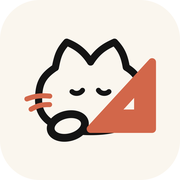
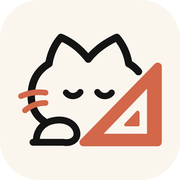
시안을 손으로 옮기는 대신 벡터를 그대로 쓴다 (#127)
마크를 세 번 고쳐 그렸다. 시안이 그림 파일로만 있는 줄 알고 잉크를 픽셀로 재서 랜드마크를
이어 붙였는데, 귀와 발이 두 번 어긋났다. 점 몇 개는 형태가 아니다. 그냥스타일에 벡터 원본이
있었다 — download.svg. 워드마크만 떼고 다섯 그룹을 좌표도 굵기도 손대지 않은 채 옮기고,
판 가운데로 올리는 transform 한 줄만 붙였다. 색은 이미 먹과 클레이라 칠할 것도 없었다.

같은 그림이 icon.svg와 Brand에 두 번 적히는 건 그대로다. 테스트가 획, 굵기, 배치, 그리고
삼각자 속을 비우는 even-odd까지 맞물어 둔다.

공유 카드는 타일 모서리가 흰색이었다. Quick Look이 불투명한 판으로 내주기 때문에 아이콘이
비워 둔 바깥이 흰색으로 나오는데, 그걸 그대로 붙이니 둥근 모서리 네 곳이 흰 삼각으로 남아
있었다. 이제 아이콘이 쓰는 반지름 그대로 잘라 붙인다. 대체 텍스트도 아직 책 읽는 고양이를
가리키고 있어 고쳤다 — 화면 읽어주는 사람한테만 보이는 자리라 눈으로는 잡히지 않는다.

그림 파일을 만드는 방법이 저장소에 없었다. scripts/build-brand-images.py로 들여놓는다.
icon.svg 하나에서 파비콘, 홈 화면 아이콘, 공유 카드를 다시 뽑고, 두 번 돌려도 같은 바이트가
나온다. ImageMagick은 이 SVG들의 획을 전부 떨어뜨려서 래스터는 Quick Look으로 뽑는다.
favicon.ico는 RGBA로 저장해야 한다 — RGB로 쓰면 빌드가 한참 떨어진 자리에서 깨진다.

diff --git a/src/features/learning/learning-workspace.tsx b/src/features/learning/learning-workspace.tsx
@@ -87,45 +87,51 @@ function showProblem(index: number) {
 }
 
 /**
- * The mark: a cat with a paw resting at its chin and a set square leaning across its face — ink and
- * paper, with the clay spent on the one thing that says what this is for. It is kept here as paths
- * rather than an <img> so it inherits nothing and costs no second request, and because the same
- * drawing has to exist in src/app/icon.svg for the browser tab; tests/app-icons.test.ts holds them
- * equal.
+ * The mark: a cat with its eyes closed, a paw resting where its chin would be, and a set square
+ * leaning across the right of its face. It is kept here as paths rather than an <img> so it
+ * inherits nothing and costs no second request, and because the same drawing has to exist in
+ * src/app/icon.svg for the browser tab; tests/app-icons.test.ts holds them equal.
  *
- * Only the left whiskers are drawn: the right pair would run straight into the ruler. The ruler is
- * filled rather than outlined, which is what lets one drawing serve every size down to the favicon.
- * Its apex stops where the ears start rather than at their tips, and its lower-left corner sits on
- * the middle of the face — both read off the 0.88 the head is drawn at.
+ * The paths are not ours. They come straight out of ~/Documents/그냥스타일/download.svg — the
+ * commissioned mark, as vector — with the wordmark below it dropped and the rest set on the plate
+ * by the single transform below. Earlier passes read landmarks off a raster of the same drawing and
+ * joined them up, and got the ears and the paw wrong twice. A few points are not a shape; ask for
+ * the vector instead.
  */
 function Brand() {
   return <span className="brand"><span className="brand-mark" aria-hidden="true">
     <svg viewBox="0 0 600 600" fill="none">
       <path d="M468 0H132C59.0984 0 0 59.0984 0 132V468C0 540.902 59.0984 600 132 600H468C540.902 600 600 540.902 600 468V132C600 59.0984 540.902 0 468 0Z" fill="#FAF6EE" />
-      <g transform="translate(302 290) scale(0.88) translate(-300 -305)" stroke="#141414" strokeLinecap="round" strokeLinejoin="round">
-        <g strokeWidth="27">
-          <path d="M300 210.327C327.942 166.625 356 151 390.561 135.222C415 161.5 427 183 435 229.5" />
-          <path d="M300.091 210.327C272.149 166.625 242 148.5 209.53 135.222C184.5 164 176 181 166.5 231.5" />
-          <path d="M435.5 230.5C484.5 260.5 492.5 296 496 354C496 440 412 474 300 474C188 474 103 440 103 354C103 294.5 116 265.5 164.5 232.5" />
+      <g transform="translate(-125.6 -72.9) scale(1.9)" strokeLinecap="round" strokeLinejoin="round">
+        {/* 얼굴. 한 획으로 왼뺨을 올라 두 귀를 넘고, 자에 닿기 전 허공에서 끝난다 */}
+        <g stroke="#141414" strokeWidth="13">
+          <path d="M143 251 C127 240 120 223 121 203 C122 180 132 162 152 150 C155 130 164 114 173 104 C192 112 208 125 221 142 C234 125 252 113 271 104 C282 117 289 132 292 150 C298 153 304 158 309 164" />
         </g>
-        <g strokeWidth="19">
-          <path d="M329.731 317.503C338.131 330.673 357.97 333.206 369.409 322.569" />
-          <path d="M229.591 322.571C241.031 333.207 260.87 330.672 269.269 317.502" />
+        {/* 감은 눈 */}
+        <g stroke="#141414" strokeWidth="11">
+          <path d="M182 201 C188 209 201 209 207 200" />
+          <path d="M237 200 C243 209 256 209 262 201" />
         </g>
-      </g>
-      <g transform="translate(302 290) scale(0.88) translate(-300 -305)" stroke="#D2674A" strokeWidth="19" strokeLinecap="round">
-        <path d="M145.318 339.595C107.841 336.058 87.6592 339.69 58.687 350.231" />
-        <path d="M144.687 371.701C113.203 371.226 97.036 376.437 74.5848 389.179" />
-      </g>
-      <g fill="#FAF6EE" stroke="#141414" strokeWidth="26" strokeLinejoin="round" strokeLinecap="round">
-        <ellipse cx="226" cy="420" rx="58" ry="38" transform="rotate(-14 226 420)" />
-      </g>
-      <g fill="#D2674A" stroke="#D2674A" strokeWidth="26" strokeLinejoin="round" fillRule="evenodd">
-        <path d="M507 207V430H302ZM460 293V378H382Z" />
+        {/* 수염 */}
+        <g stroke="#D2674A" strokeWidth="10">
+          <path d="M103 207 C117 201 131 199 146 201" />
+          <path d="M110 232 C121 223 132 219 146 219" />
+        </g>
+        {/* 앞발. 턱이 있을 자리에 놓인다 */}
+        <g stroke="#141414" strokeWidth="12">
+          <path d="M124 288 H177 C193 291 205 281 200 267 C195 253 178 246 160 250 C142 253 131 267 130 282" />
+        </g>
+        {/* 삼각자. 가운데가 비어 보여야 해서 한 길 안의 두 고리로 그린다 */}
+        <g fill="#D2674A">
+          <path fillRule="evenodd" d="M338 150 C342 146 350 149 350 155 V287 C350 292 347 295 342 295 H213 C206 295 203 288 208 283 Z M324 194 L248 273 H324 Z" />
+          <path d="M305 234 C307 231 311 233 311 237 V257 C311 259 310 260 308 260 H287 C284 260 283 257 285 255 Z" />
+        </g>
       </g>
     </svg>
   </span><span className="brand-word">그냥<span>수학</span></span></span>;
 }
+
+
 
 
 

diff --git a/tests/app-icons.test.ts b/tests/app-icons.test.ts
@@ -23,23 +23,30 @@ const paths = (source: string) => [...source.matchAll(/ d="([^"]+)"/g)].map((mat
 
 describe('the app icon', () => {
   it('draws exactly what the sidebar draws', () => {
+    // 판 하나에, 시안에서 그대로 옮겨 온 여덟 획.
     expect(paths(brand), '사이드바 브랜드 마크의 획').toHaveLength(9);
     expect(paths(svg), 'icon.svg의 획이 사이드바와 다르다').toEqual(paths(brand));
   });
 
-  it('places the ruler where the sidebar places it', () => {
-    // The face is scaled and shifted to make room for the ruler; the two have to agree on that too,
-    // or the icon shows the same strokes in a different arrangement.
-    const frame = /translate\(302 290\) scale\(0\.88\) translate\(-300 -305\)/g;
-    expect(svg.match(frame), 'icon.svg의 얼굴 배치').toHaveLength(2);
-    expect(brand.match(frame), '사이드바의 얼굴 배치').toHaveLength(2);
+  it('sets the drawing on the plate the way the sidebar does', () => {
+    // 시안은 제 좌표계로 그려져 있고, 이 한 줄이 그것을 판 가운데로 옮긴다. 양쪽이 같아야 같은 자리에 선다.
+    const frame = /translate\(-125\.6 -72\.9\) scale\(1\.9\)/g;
+    expect(svg.match(frame), 'icon.svg의 배치').toHaveLength(1);
+    expect(brand.match(frame), '사이드바의 배치').toHaveLength(1);
   });
 
-  it('draws the paw the sidebar draws', () => {
-    // The paw is an <ellipse>, not a path, so it would slip past the stroke comparison above.
-    const paw = /<ellipse cx="226" cy="420" rx="58" ry="38" transform="rotate\(-14 226 420\)"/;
-    expect(svg, 'icon.svg의 발').toMatch(paw);
-    expect(brand, '사이드바의 발').toMatch(paw);
+  it('leaves the middle of the set square open', () => {
+    // 자의 속은 한 길 안의 둘째 고리다. even-odd가 아니면 메워져 통짜 삼각형이 된다.
+    expect(brand, '사이드바의 삼각자').toMatch(/fillRule="evenodd"/);
+    expect(svg, 'icon.svg의 삼각자').toMatch(/fill-rule="evenodd"/);
+  });
+
+  it('keeps the strokes at the weights the reference drew them', () => {
+    // 굵기는 시안 좌표계의 값 그대로다. 한쪽만 손대면 같은 그림이 다른 무게로 나온다.
+    const widths = (source: string, attribute: string) =>
+      [...source.matchAll(new RegExp(`${attribute}="(\\d+)"`, 'g'))].map((match) => match[1]);
+    expect(widths(svg, 'stroke-width'), 'icon.svg의 획 굵기').toEqual(['13', '11', '10', '12']);
+    expect(widths(brand, 'strokeWidth'), '사이드바의 획 굵기').toEqual(widths(svg, 'stroke-width'));
   });
 
   it('paints nothing outside the palette', () => {
@@ -50,6 +57,17 @@ describe('the app icon', () => {
   it('has a favicon for browsers that will not read the svg one', () => {
     expect(icons).toContain('favicon.ico');
     expect(icons).toContain('icon.svg');
+  });
+
+  it('is made from the svg rather than by hand', () => {
+    // 아이콘·홈 화면 아이콘·공유 카드는 전부 icon.svg에서 뽑아 낸 그림 파일이다. 손으로 만들어 넣으면
+    // 마크가 바뀐 뒤에도 옛 그림이 남고, 무엇으로 만들었는지 아무도 모르게 된다.
+    const script = readFileSync('scripts/build-brand-images.py', 'utf8');
+    for (const name of icons) {
+      if (name === 'icon.svg' || name.endsWith('.txt')) continue;
+      expect(script, `${name}을 만드는 자리가 scripts/build-brand-images.py에 없다`).toContain(name);
+    }
+    expect(readFileSync('package.json', 'utf8'), 'brand:images 스크립트').toContain('build-brand-images.py');
   });
 
   it('is carried into the phone bundle', () => {

diff --git a/scripts/build-brand-images.py b/scripts/build-brand-images.py
@@ -1,0 +1,127 @@
+"""Draws every brand image that is committed as a picture rather than as markup.
+
+`src/app/icon.svg` is the only drawing anyone edits. The tab icon, the home-screen icon and the card
+a shared link shows are all made from it, and all three are binaries, so without this script they are
+files nobody can remake. Run it after any change to the mark:
+
+    npm run brand:images
+
+It needs macOS. Two reasons, both about rendering:
+
+  * ImageMagick drops every stroke in these SVGs — it renders them through its own MSVG parser, which
+    ignores the stroke attributes the mark is drawn with. Quick Look hands the file to WebKit, which
+    is a real browser, so `qlmanage` is what rasterises here.
+  * `next/og` cannot set this app's own type. Satori reads ttf/otf/woff and both brand faces ship as
+    woff2; Pretendard alone is four times the 500KB bundle ceiling. So the card is drawn here, once,
+    with Apple SD Gothic Neo standing in for the reading face. The two are close relatives, and the
+    card reads as the app does.
+
+Everything the script writes is reproducible: run it twice on an unchanged icon.svg and the bytes
+come out the same, so a dirty tree after running it means the mark really did move.
+"""
+
+from pathlib import Path
+import shutil
+import subprocess
+import sys
+import tempfile
+
+from PIL import Image, ImageDraw, ImageFont
+
+ROOT = Path(__file__).resolve().parent.parent
+APP = ROOT / 'src' / 'app'
+ICON = APP / 'icon.svg'
+
+PAPER = (0xFA, 0xF6, 0xEE)
+INK = (0x2B, 0x26, 0x22)
+MUTED = (0x8A, 0x83, 0x78)
+CLAY = (0xD2, 0x67, 0x4A)
+LINE = (0xE3, 0xDE, 0xD2)
+RULE = (70, 58, 36)
+
+GOTHIC = Path('/System/Library/Fonts/AppleSDGothicNeo.ttc')
+BOLD, MEDIUM = 6, 2
+
+# The plate in icon.svg is a 600-unit rounded square with a 132-unit radius. The card cuts its tile
+# to the same shape, because Quick Look returns an opaque sheet — whatever the icon leaves
+# transparent comes back white, and pasted flat that shows as four white corners.
+PLATE_RADIUS = 132 / 600
+
+
+def render_icon(size: int) -> Image.Image:
+    """icon.svg, rasterised by WebKit at `size` square."""
+    if not shutil.which('qlmanage'):
+        sys.exit('qlmanage not found. This script needs macOS; see the note at the top of the file.')
+    with tempfile.TemporaryDirectory() as tmp:
+        subprocess.run(['qlmanage', '-t', '-s', str(size), '-o', tmp, str(ICON)],
+                       check=True, capture_output=True)
+        out = Path(tmp) / f'{ICON.name}.png'
+        if not out.exists():
+            sys.exit(f'Quick Look rendered nothing for {ICON}. Is the SVG valid XML?')
+        return Image.open(out).convert('RGBA').copy()
+
+
+def write_icons(mark: Image.Image) -> None:
+    mark.convert('RGB').resize((180, 180), Image.LANCZOS).save(APP / 'apple-icon.png', optimize=True)
+    # The .ico has to be RGBA. Saved as RGB it is a valid file that every viewer opens and that the
+    # Turbopack build refuses with "The PNG is not in RGBA format", nowhere near this line.
+    mark.resize((48, 48), Image.LANCZOS).save(APP / 'favicon.ico', format='ICO',
+                                              sizes=[(48, 48), (32, 32), (16, 16)])
+
+
+def write_card(mark: Image.Image) -> None:
+    if not GOTHIC.exists():
+        sys.exit(f'{GOTHIC} not found. The card is drawn with the system Korean face.')
+    face = lambda size, weight: ImageFont.truetype(str(GOTHIC), size, index=weight)
+
+    width, height = 1200, 630
+    card = Image.new('RGB', (width, height), PAPER)
+    draw = ImageDraw.Draw(card)
+
+    # The app's own squared paper, at the faintness it has on screen.
+    faint = tuple(int(c * 0.06 + p * 0.94) for c, p in zip(RULE, PAPER))
+    for x in range(0, width, 26):
+        draw.line([(x, 0), (x, height)], fill=faint)
+    for y in range(0, height, 26):
+        draw.line([(0, y), (width, y)], fill=faint)
+
+    size, left = 300, 96
+    top = (height - size) // 2
+
+    # A hairline under the tile, so the mark reads as something set down on the paper rather than a
+    # patch where the ruling stopped.
+    draw.rounded_rectangle([left - 2, top - 2, left + size + 2, top + size + 2],
+                           radius=int(PLATE_RADIUS * size) + 2, outline=LINE, width=2)
+
+    supersample = 4
+    plate = Image.new('L', (size * supersample, size * supersample), 0)
+    ImageDraw.Draw(plate).rounded_rectangle(
+        [0, 0, size * supersample - 1, size * supersample - 1],
+        radius=int(PLATE_RADIUS * size * supersample), fill=255)
+    card.paste(mark.convert('RGB').resize((size, size), Image.LANCZOS), (left, top),
+               plate.resize((size, size), Image.LANCZOS))
+
+    x = left + size + 76
+    # One clay rule, the only colour on the card — the same accent the whiskers are drawn in.
+    draw.rounded_rectangle([x, 150, x + 96, 156], radius=3, fill=CLAY)
+    draw.text((x, 196), '그냥, 다시 시작하는 수학', font=face(64, BOLD), fill=INK)
+    draw.text((x, 292), '기초부터 차근차근, 내 속도로.', font=face(34, MEDIUM), fill=MUTED)
+    draw.text((x, 346), '짧은 수업과 꾸준한 연습.', font=face(34, MEDIUM), fill=MUTED)
+    draw.text((x, 420), '그냥수학', font=face(28, MEDIUM), fill=MUTED)
+
+    card.save(APP / 'opengraph-image.png', optimize=True)
+    card.save(APP / 'twitter-image.png', optimize=True)
+
+
+def main() -> None:
+    if not ICON.exists():
+        sys.exit(f'{ICON} not found.')
+    mark = render_icon(1024)
+    write_icons(mark)
+    write_card(mark)
+    for name in ('favicon.ico', 'apple-icon.png', 'opengraph-image.png', 'twitter-image.png'):
+        print(f'wrote src/app/{name}')
+
+
+if __name__ == '__main__':
+    main()
